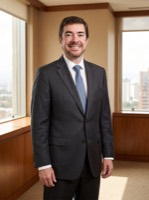
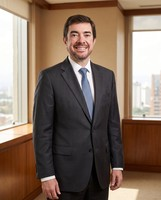
Directivos: las caras deformadas en la ficha
Mindlin y Bulgheroni salían angostos. El object-fit: cover de .s-cara-gr se
había sacado con el argumento de que a tamaño nativo no hay nada que recortar,
y el argumento daba por sentado que los treinta archivos miden igual.

Cuatro no medían igual: pampa.jpg y pae.jpg eran 200×200 y clear_petroleum_sa
y flxs_oge_sa, 149×200. Sin cover se estiraban dentro de la caja de 161×200
—la cuadrada perdía un 24% de ancho, que es exactamente lo que se veía—.

Se arreglan las dos puntas. Los cuatro archivos se reexportaron a 161×200
recortando desde el ORIGINAL y no desde la versión ya recortada: la de Mindlin
vuelve a los 365×547 que se bajaron, así el 1:1 intermedio deja de comerle los
costados. Y el cover vuelve al CSS aunque hoy no recorte nada, porque la
próxima cara que alguien agregue no va a venir medida.

diff --git a/apps/ui-prototype/src/app/v2/sistema.css b/apps/ui-prototype/src/app/v2/sistema.css
@@ -1246,18 +1246,27 @@
 .s-ficha-datos a { text-decoration: none; }
 .s-ficha-datos a:hover { background: var(--hover-2); }
 
-/* LA CARA GRANDE va a 161×200, que es el tamaño NATIVO del archivo: ampliar
-   una imagen de 161 a más deja el borrón que .s-placa evita con --placa-tope.
-   Y 161 ya es medida del sistema —el lado de .s-placa--grande—, así que el
-   número no se inventa acá.
+/* LA CARA GRANDE va a 161×200, que es el tamaño nativo de los archivos:
+   ampliar una imagen de 161 a más deja el borrón que .s-placa evita con
+   --placa-tope. Y 161 ya es medida del sistema —el lado de .s-placa--grande—,
+   así que el número no se inventa acá.
 
-   Sin `object-fit: cover`: a tamaño nativo no hay nada que recortar. */
+   `object-fit: cover` VA, aunque la caja mida lo mismo que el archivo. Se
+   había sacado con el argumento de que a tamaño nativo no hay nada que
+   recortar, y el argumento estaba mal: daba por sentado que los treinta
+   archivos miden igual. Cuatro no —dos de 200×200 y dos de 149×200— y sin
+   cover se estiraban dentro de la caja: la de 200 cuadrada perdía un 24% de
+   ancho y la cara salía angosta.
+
+   Los cuatro archivos se normalizaron, así que hoy no recorta nada. Queda
+   igual, porque la próxima cara que alguien agregue no va a venir medida. */
 .s-cara-gr {
   display: block;
   flex-shrink: 0;
   width: 161px;
   height: 200px;
   border-radius: var(--radius-control);
+  object-fit: cover;
   background: var(--field);
   box-shadow: var(--shadow-hairline);
 }
